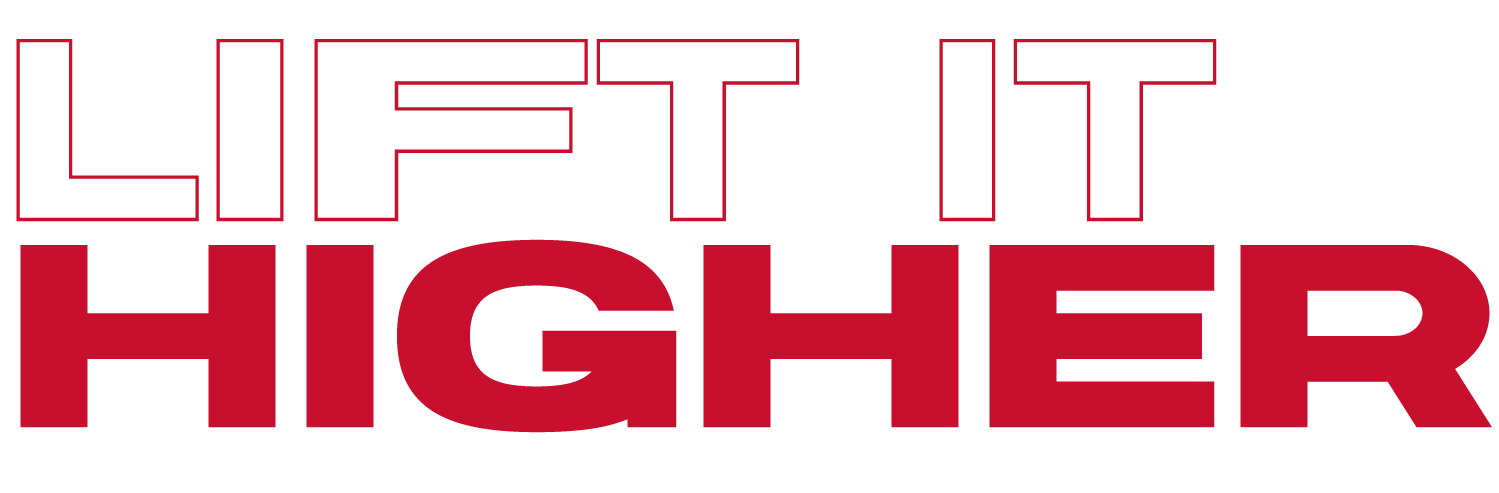
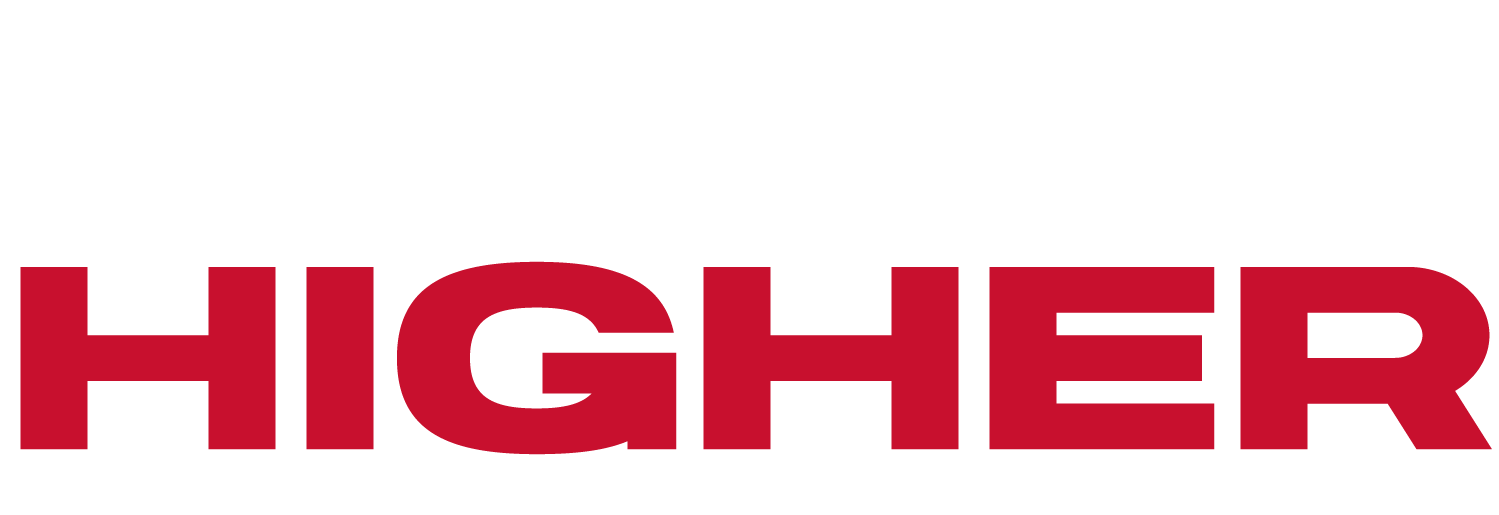
landing prog...

diff --git a/landing.html b/landing.html
@@ -188,7 +188,7 @@
                     <div><!-- flex and innermost LR padding -->
                         <section class="rS cC"><!--  content control -->
                             <!--h2 class="fw-100">Lift it Higher</h2 -->
-                            <img src="/images/text/lift-it-higher.svg">
+                            <img src="/images/text/lift-it-higher3.svg">
                            
                     
                         </section>
@@ -208,12 +208,13 @@
                 <div class="innerContent largeH" ><!--height and LR partial padding overlay bg element - eg arrow -->
                     <div><!-- flex and innermost LR padding -->
                         <section class="rS cC"><!--  content control -->
-                            <h2 class="brand1 fw-100">Promo / Slide title 1</h2>
-                            <br> 
-                            <p>Look at padding top and bottom of slider sections and this element aling self to top so it joins the static content above.</p>
-                            <br>
-                            <a href="#" class="ctaButton">Learn More</a>
-                    
+                                <h3 class="brand1">Selected Electric Forklifts.</h3>
+                                <br>
+                                <h1 class="fw-200">Rent from only $120 Per Week*</h1>
+                                <br>
+                                <h6 class="small">*Subject to terms &amp; conditions. Limited Time!</h6>  
+                                <br>
+                                <a href="#" class="ctaButton">View Models</a>
                         </section>
                         <section class="rC cC">
                             <img src="/images/test/large1.png">
@@ -610,54 +611,8 @@
                         </div>
 
 
-                       
-
-
                         
-
-                       
-
-                       
                         
-
-                       
-
-                        <!-- category FAQs -->
-                        <h3>FAQ</h3>
-                        <div class="collapsibleFeatures">
-                            <div class="featureItem">
-                                <a href="#" class="featureItemTrigger"><h6>Which electric forklifts are suited for all day work?</h6><i class=" icon-ic-plus"></i> </a>
-                                <div class="featureItemDetail">
-                                    <p>Aute ad pariatur cillum amet laborum mollit nisi amet mollit consectetur reprehenderit sit nostrud. Occaecat exercitation ut occaecat culpa commodo dolore fugiat pariatur eu aute ut. Irure duis exercitation ipsum ipsum eiusmod amet sint nisi irure magna enim exercitation id. Elit nostrud commodo id incididunt quis.</p>
-
-                                    <p>A good model to look at would be either the <a href="/model.html">Linde E30 - 35 B</a> or <a href="/model.html">Baoli KBET 18 - 20</a> electric forklifts.</p>
-                                </div>
-                            </div>
-                            <div class="featureItem">
-                                <a href="#" class="featureItemTrigger"><h6>Are there hybrid IC/Electric forklifts?</h6><i class=" icon-ic-plus"></i> </a>
-                                <div class="featureItemDetail">
-                                    <p>Aute ad pariatur cillum amet laborum mollit nisi amet mollit consectetur reprehenderit sit nostrud. Occaecat exercitation ut occaecat culpa commodo dolore fugiat pariatur eu aute ut. Irure duis exercitation ipsum ipsum eiusmod amet sint nisi irure magna enim exercitation id. Elit nostrud commodo id incididunt quis.</p>
-
-                                    <p>A good model to look at would be either the <a href="/model.html">Linde E30 - 35 B</a> or <a href="/model.html">Baoli KBET 18 - 20</a> electric forklifts.</p>
-                                </div>
-                            </div>
-                            <div class="featureItem">
-                                <a href="#" class="featureItemTrigger"><h6>Are these machines serviced in the field locally- NZ wide?</h6><i class=" icon-ic-plus"></i> </a>
-                                <div class="featureItemDetail">
-                                    <p>Aute ad pariatur cillum amet laborum mollit nisi amet mollit consectetur reprehenderit sit nostrud. Occaecat exercitation ut occaecat culpa commodo dolore fugiat pariatur eu aute ut. Irure duis exercitation ipsum ipsum eiusmod amet sint nisi irure magna enim exercitation id. Elit nostrud commodo id incididunt quis.</p>
-
-                                    <p>A good model to look at would be either the <a href="/model.html">Linde E30 - 35 B</a> or <a href="/model.html">Baoli KBET 18 - 20</a> electric forklifts.</p>
-                                </div>
-                            </div>
-                            <div class="featureItem">
-                                <a href="#" class="featureItemTrigger"><h6>What is the difference between leasing and renting?</h6><i class=" icon-ic-plus"></i> </a>
-                                <div class="featureItemDetail">
-                                    <p>Aute ad pariatur cillum amet laborum mollit nisi amet mollit consectetur reprehenderit sit nostrud. Occaecat exercitation ut occaecat culpa commodo dolore fugiat pariatur eu aute ut. Irure duis exercitation ipsum ipsum eiusmod amet sint nisi irure magna enim exercitation id. Elit nostrud commodo id incididunt quis.</p>
-
-                                    <p>A good model to look at would be either the <a href="/model.html">Linde E30 - 35 B</a> or <a href="/model.html">Baoli KBET 18 - 20</a> electric forklifts.</p>
-                                </div>
-                            </div>
-                        </div><!-- end collapsible features-->
                         
 
                     </section>
@@ -669,140 +624,150 @@
                         
 
 
-                        <div class="smallPromo brand1">
-                            <h3>Selected Electric Forklifts. Rent From*</h3>
-                            <h1>$120</h1>
-                            <h6 class="small">Per Week. Limited Time!</h6>
-                            <h6 class="small">*Subject to <a href="#termsConditions">terms &amp; conditions.</a></h6>  
-                        </div>
+                        [linde teaser - link to name on our story]
 
-                        <h3>Product Enquiry</h3>
-                        <h6 class="bumpLineHeight">Electric Forklifts</h6>
+                        [baoli teaser - no link]
+
+                        <hr>
+                        Ranges - blurb and link to cat view - grouped by category (eg, IC Engine, Electric etc)
+
+
+                        <hr>
+
+
+
+
+                        <h3>Need Help? <span class="brand1 fw-200">Contact our friendly NZ Sales Team</span></h3>
                         <br>
+                        <div class="showItemWrapper">
+                            <a href="#" class="ctaButton showItemTrigger">Get in touch</a>
+                            
+                            <form class="showItemContent">
+                                <div class="form forms">
+                                    
+                                    <p>Enquiry type:</p>
+                                    <div class="enquiryType">
+                                        <div>
+                                            <input type="checkbox" id="Topic-Purchase" name="Topic-Purchase">
+                                            <label for="Topic-Purchase">Purchase</label> 
+                                        </div>
+                                        <div>
+                                            <input type="checkbox" id="Topic-Lease" name="Topic-Lease">
+                                            <label for="Topic-Lease">Lease</label> 
+                                        </div>
+                                        <div>
+                                            <input type="checkbox" id="Topic-Rental" name="Topic-Rental">
+                                            <label for="Topic-Rental">Rental (Short-term)</label> 
+                                        </div>
+                                        <div>
+                                            <input type="checkbox" id="Topic-Other" name="Topic-Other">
+                                            <label for="Topic-Other">Other</label> 
+                                        </div>
+                                    </div>
 
-                        <form>
-                            <div class="form forms">
+                                    <br>
                                 
-                                <p>Enquiry type:</p>
-                                <div class="enquiryType">
-                                    <div>
-                                        <input type="checkbox" id="Topic-Purchase" name="Topic-Purchase">
-                                        <label for="Topic-Purchase">Purchase</label> 
-                                    </div>
-                                    <div>
-                                        <input type="checkbox" id="Topic-Lease" name="Topic-Lease">
-                                        <label for="Topic-Lease">Lease</label> 
-                                    </div>
-                                    <div>
-                                        <input type="checkbox" id="Topic-Rental" name="Topic-Rental">
-                                        <label for="Topic-Rental">Rental (Short-term)</label> 
-                                    </div>
-                                    <div>
-                                        <input type="checkbox" id="Topic-Other" name="Topic-Other">
-                                        <label for="Topic-Other">Other</label> 
-                                    </div>
-                                </div>
-
-                                <br>
-                              
-                                <div class="spaceBetween">
-                                    <div>
-                                        <div class="floating">
-                                        <input class="floating__input" type="text" placeholder="First Name" data-val="true" data-val-length="The field First name must be a string with a maximum length of 256." data-val-length-max="256" data-val-required="The First name field is required." id="FirstName" maxlength="256" name="FirstName" value="">
-                                        <label for="FirstName" class="floating__label" data-content="First Name">
-                                            <span class="hidden--visually">First Name</span>
-                                        </label>
+                                    <div class="spaceBetween">
+                                        <div>
+                                            <div class="floating">
+                                            <input class="floating__input" type="text" placeholder="First Name" data-val="true" data-val-length="The field First name must be a string with a maximum length of 256." data-val-length-max="256" data-val-required="The First name field is required." id="FirstName" maxlength="256" name="FirstName" value="">
+                                            <label for="FirstName" class="floating__label" data-content="First Name">
+                                                <span class="hidden--visually">First Name</span>
+                                            </label>
+                                            </div>
+                                            <span class="field-validation-valid" data-valmsg-for="FirstName" data-valmsg-replace="true"></span>
                                         </div>
-                                        <span class="field-validation-valid" data-valmsg-for="FirstName" data-valmsg-replace="true"></span>
+
+                                        <div>
+                                            <div class="floating">
+                                            <input class="floating__input" type="text" placeholder="Last Name" data-val="true" data-val-length="The field First name must be a string with a maximum length of 256." data-val-length-max="256" data-val-required="The Last name field is required." id="LastName" maxlength="256" name="LastName" value="">
+                                            <label for="LastName" class="floating__label" data-content="Last Name">
+                                                <span class="hidden--visually">Last Name</span>
+                                            </label>
+                                            </div>
+                                            <span class="field-validation-valid" data-valmsg-for="LastName" data-valmsg-replace="true"></span>
+                                        </div>                                
                                     </div>
 
-                                    <div>
-                                        <div class="floating">
-                                        <input class="floating__input" type="text" placeholder="Last Name" data-val="true" data-val-length="The field First name must be a string with a maximum length of 256." data-val-length-max="256" data-val-required="The Last name field is required." id="LastName" maxlength="256" name="LastName" value="">
-                                        <label for="LastName" class="floating__label" data-content="Last Name">
-                                            <span class="hidden--visually">Last Name</span>
-                                        </label>
+                                    <div class="spaceBetween">
+                                        <div>
+                                            <div class="floating">
+                                                <input class="floating__input" type="text" placeholder="Phone" data-val="true" data-val-length="The field Company name must be a string with a maximum length of 256." data-val-length-max="256" id="Phone" maxlength="256" name="Phone" value="">
+                                                <label for="Phone" class="floating__label" data-content="Phone">
+                                                <span class="hidden--visually">Phone</span>
+                                                </label>
+                                            </div>
+                                            <span class="field-validation-valid" data-valmsg-for="CompanyName" data-valmsg-replace="true"></span>
                                         </div>
-                                        <span class="field-validation-valid" data-valmsg-for="LastName" data-valmsg-replace="true"></span>
-                                    </div>                                
-                                </div>
 
-                                <div class="spaceBetween">
+                                        <div>
+                                            <div class="floating">
+                                                <input class="floating__input" type="text" placeholder="Company" data-val="true" data-val-length="The field Company name must be a string with a maximum length of 256." data-val-length-max="256" id="CompanyName" maxlength="256" name="CompanyName" value="">
+                                                <label for="CompanyName" class="floating__label" data-content="Company">
+                                                <span class="hidden--visually">Company</span>
+                                                </label>
+                                            </div>
+                                            <span class="field-validation-valid" data-valmsg-for="CompanyName" data-valmsg-replace="true"></span>
+                                        </div>
+                                    </div>
+                                    
                                     <div>
                                         <div class="floating">
-                                            <input class="floating__input" type="text" placeholder="Phone" data-val="true" data-val-length="The field Company name must be a string with a maximum length of 256." data-val-length-max="256" id="Phone" maxlength="256" name="Phone" value="">
-                                            <label for="Phone" class="floating__label" data-content="Phone">
-                                            <span class="hidden--visually">Phone</span>
+                                            <input class="floating__input" type="text" placeholder="Email Address" data-val="true" data-val-email="The Email field is not a valid e-mail address." data-val-length="The field Email must be a string with a maximum length of 256." data-val-length-max="256" data-val-required="The Email field is required." id="Email" maxlength="256" name="Email" value="">
+                                            <label for="Email" class="floating__label" data-content="Email Address">
+                                                <span class="hidden--visually">Email Address</span>
                                             </label>
                                         </div>
-                                        <span class="field-validation-valid" data-valmsg-for="CompanyName" data-valmsg-replace="true"></span>
+                                        <span class="field-validation-valid" data-valmsg-for="Email" data-valmsg-replace="true"></span>
+                                    </div>                                                           
+                                    
+                                    <div class="select-container">
+                                        <select required="" id="FormSubmitModel_RegionID" name="FormSubmitModel.RegionID">
+                                            <option value="">Region</option>
+                                                <option value="2">Auckland Central/South</option>
+                                                <option value="15">Auckland North/West</option>
+                                                <option value="4">Bay of Plenty</option>
+                                                <option value="11">Canterbury</option>
+                                                <option value="5">Gisborne / Hawkes Bay</option>
+                                                <option value="7">Manawatu-Wanganui</option>
+                                                <option value="9">Nelson / Marlborough</option>
+                                                <option value="1">Northland</option>
+                                                <option value="12">Otago</option>
+                                                <option value="14">Other / International</option>
+                                                <option value="13">Southland</option>
+                                                <option value="6">Taranaki</option>
+                                                <option value="10">Tasman / West Coast</option>
+                                                <option value="3">Waikato</option>
+                                                <option value="8">Wellington</option>
+                                        </select>
                                     </div>
 
-                                    <div>
-                                        <div class="floating">
-                                            <input class="floating__input" type="text" placeholder="Company" data-val="true" data-val-length="The field Company name must be a string with a maximum length of 256." data-val-length-max="256" id="CompanyName" maxlength="256" name="CompanyName" value="">
-                                            <label for="CompanyName" class="floating__label" data-content="Company">
-                                            <span class="hidden--visually">Company</span>
-                                            </label>
-                                        </div>
-                                        <span class="field-validation-valid" data-valmsg-for="CompanyName" data-valmsg-replace="true"></span>
+                                    <br>
+                                    <br>
+                                            
+                                    <p>Message:</p>
+                                    <div class="other__inputs">                                       
+                                        <textarea data-val="true" data-val-length="The field Message must be a string with a maximum length of 4000." data-val-length-max="4000" data-val-required="The Message field is required." id="Message" maxlength="4000" name="Message" placeholder=""></textarea>
+                                        <div><span class="field-validation-valid" data-valmsg-for="Message" data-valmsg-replace="true"></span></div>
                                     </div>
-                                </div>
-                                
-                                <div>
-                                    <div class="floating">
-                                        <input class="floating__input" type="text" placeholder="Email Address" data-val="true" data-val-email="The Email field is not a valid e-mail address." data-val-length="The field Email must be a string with a maximum length of 256." data-val-length-max="256" data-val-required="The Email field is required." id="Email" maxlength="256" name="Email" value="">
-                                        <label for="Email" class="floating__label" data-content="Email Address">
-                                            <span class="hidden--visually">Email Address</span>
-                                        </label>
+
+                                    <br>
+                                                                
+                                    <div class="submitW">
+                                        <input type="submit" value="Send Enquiry" class="ctaButton button">
+                                        <a href="#" class="closeParent">Cancel</a>
                                     </div>
-                                    <span class="field-validation-valid" data-valmsg-for="Email" data-valmsg-replace="true"></span>
-                                </div>                                                           
-                                
-                                <div class="select-container">
-                                    <select required="" id="FormSubmitModel_RegionID" name="FormSubmitModel.RegionID">
-                                        <option value="">Region</option>
-                                            <option value="2">Auckland Central/South</option>
-                                            <option value="15">Auckland North/West</option>
-                                            <option value="4">Bay of Plenty</option>
-                                            <option value="11">Canterbury</option>
-                                            <option value="5">Gisborne / Hawkes Bay</option>
-                                            <option value="7">Manawatu-Wanganui</option>
-                                            <option value="9">Nelson / Marlborough</option>
-                                            <option value="1">Northland</option>
-                                            <option value="12">Otago</option>
-                                            <option value="14">Other / International</option>
-                                            <option value="13">Southland</option>
-                                            <option value="6">Taranaki</option>
-                                            <option value="10">Tasman / West Coast</option>
-                                            <option value="3">Waikato</option>
-                                            <option value="8">Wellington</option>
-                                    </select>
-                                </div>
 
-                                <br>
-                                <br>
-                                        
-                                <p>Message:</p>
-                                <div class="other__inputs">                                       
-                                    <textarea data-val="true" data-val-length="The field Message must be a string with a maximum length of 4000." data-val-length-max="4000" data-val-required="The Message field is required." id="Message" maxlength="4000" name="Message" placeholder=""></textarea>
-                                    <div><span class="field-validation-valid" data-valmsg-for="Message" data-valmsg-replace="true"></span></div>
-                                </div>
+                                    <div id="ValidationSummary" class="text-danger validation-summary-valid" data-valmsg-summary="true">
+                                        <ul>
+                                            <li style="display:none"></li>
+                                        </ul>
+                                    </div>
 
-                                <br>
-                                                            
-                                <div class="submitW">
-                                    <input type="submit" value="Send Enquiry" class="ctaButton button">
-                                </div>
+                                </div>      
+                            </form>
 
-                                <div id="ValidationSummary" class="text-danger validation-summary-valid" data-valmsg-summary="true">
-                                    <ul>
-                                        <li style="display:none"></li>
-                                    </ul>
-                                </div>
-
-                            </div>      
-                        </form>
+                        </div>
 
                     </section>
 
